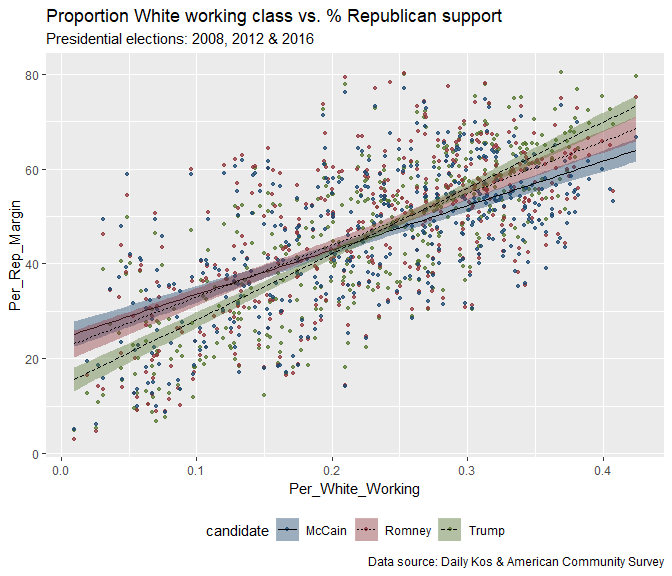
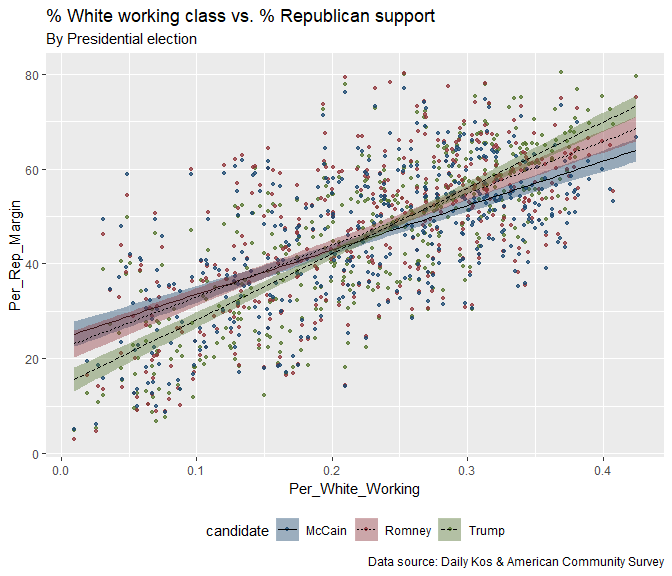
re

Changed region(s): [[0.0625, 0.0, 0.75, 0.0938]]

diff --git a/README.md b/README.md
@@ -1,7 +1,7 @@
 American political data & R: some open source resources & methods
 -----------------------------------------------------------------
 
-A layman's guide to accessing, integrating, and exploring US political data from a heterogenous collection of open government resources, including presidential election returns (2008-2016 by congressional district), lawmaker biographies & political ideologies, and congressional district demographics.
+A layman's guide to accessing, integrating, and exploring US political data from a collection of open government resources, including presidential election returns (2008-2016 by congressional district), lawmaker biographies & political ideologies, and congressional district demographics.
 
 Data presented here have been collated from [The Daily Kos](), [CivilServiceUSA](), and the R packages [tidycensus]() & [Rvoteview]().
 
@@ -26,8 +26,9 @@ library(tidyverse)
 > [CivilServiceUSA](https://github.com/CivilServiceUSA) provides a wonderful collection of details about each lawmaker in the 115th Congress, including age, race, religion, biographical details, and social media info. A full roll call of information available for each lawmaker is available [here](https://github.com/CivilServiceUSA/us-house#data-set). Here, we consider some different perspectives on the composition of the 115th House utilizing these data.
 
 ``` r
-csusa_senate_dets <- jsonlite::fromJSON(url('https://raw.githubusercontent.com/CivilServiceUSA/us-senate/master/us-senate/data/us-senate.json'))
-csusa_house_dets <- jsonlite::fromJSON(url('https://raw.githubusercontent.com/CivilServiceUSA/us-house/master/us-house/data/us-house.json'))
+git <- 'https://raw.githubusercontent.com/CivilServiceUSA/'
+csusa_house_dets <- jsonlite::fromJSON(url(paste0(git, 'us-senate/master/us-senate/data/us-senate.json')))
+csusa_house_dets <- jsonlite::fromJSON(url(paste0(git, 'us-house/master/us-house/data/us-house.json')))
 ```
 
 #### 1.1 Age & generational demographics of the 115th House
@@ -202,7 +203,7 @@ rvoteview_house_50 %>%
 
 #### 2.3 Political ideologies historically: a party-based overview
 
-> A slightly modified version of [this](https://voteview.com/parties/all) VoteView visualization illustrating the growing ideological divide between major political parties in the US.
+> A slightly modified version of [this](https://voteview.com/parties/all) VoteView visualization illustrating the growing ideological divide between major political parties in the US. The gray line reflects overall median ideology scores in the House, and (albeit indirectly) party control of the House historically.
 
 ``` r
 rvoteview_house_50 %>%
@@ -265,11 +266,10 @@ us_house_districts <- sf::st_transform(us_house_districts, laea)
 
 ``` r
 url <- 'https://docs.google.com/spreadsheets/d/1oRl7vxEJUUDWJCyrjo62cELJD2ONIVl-D9TSUKiK9jk/edit#gid=1178631925'
-
 house <- gsheet::gsheet2tbl(url) 
 ```
 
-> A simple cleaning procedure that should (roughly) scale to other data sources at the Daily Kos.
+> A simple cleaning procedure that should (more or less) scale to other data sources at the Daily Kos.
 
 ``` r
 fix <- as.data.frame(cbind(colnames(house), as.character(house[1,])), 
@@ -284,7 +284,7 @@ house <- house %>% slice(3:nrow(.))
 keeps <- house[,!grepl('Pronun|ACS|Census|Survey', colnames(house))]
 ```
 
-Here we filter to data to the last three Presidential elections.
+> Our new data structure, filtered to Presidential returns.
 
 ``` r
 dailykos_pres_elections <- keeps [,c('District', 'Code', grep('President_[A-z]', colnames(house), value=T))] %>%
@@ -296,8 +296,6 @@ dailykos_pres_elections <- keeps [,c('District', 'Code', grep('President_[A-z]',
   mutate(CD115FP = ifelse(CD115FP == 'AL', '00', CD115FP)) %>%
   left_join(data.frame(us_house_districts) %>% select (-geometry))
 ```
-
-> Our new data structure.
 
 | District    | GEOID | year | candidate |  percent|
 |:------------|:------|:-----|:----------|--------:|
@@ -333,7 +331,7 @@ us_house_districts %>%
 
 #### 4.3 Rural & urban voting
 
-> Using the area of congressional districts (in log square meters) as a proxy for degree of urbanity. ... Plot Trump support as function of CD area.
+> Using the area of congressional districts (in log square meters) as a proxy for the often cited urban-rural divide in American votership, the plot below illustrates the relationship between Trump margins and ~degree of urbanicity. The pattern below helps account for the very red map above despite Clinton's success in the popular vote.
 
 ``` r
 us_house_districts %>%
@@ -508,8 +506,8 @@ ggplot(data = by_pres, aes(x=Per_White_Working,
   ggthemes::scale_color_stata()+
   geom_smooth(method="lm", se=T, color = 'black', size = .5)+
   theme(legend.position = "bottom")+
-  labs(title = "Proportion White working class vs. % Republican support",
-       subtitle = 'Presidential elections: 2008, 2012 & 2016',
+  labs(title = "% White working class vs. % Republican support",
+       subtitle = 'By Presidential election',
        caption = 'Data source: Daily Kos & American Community Survey')
 ```
 
